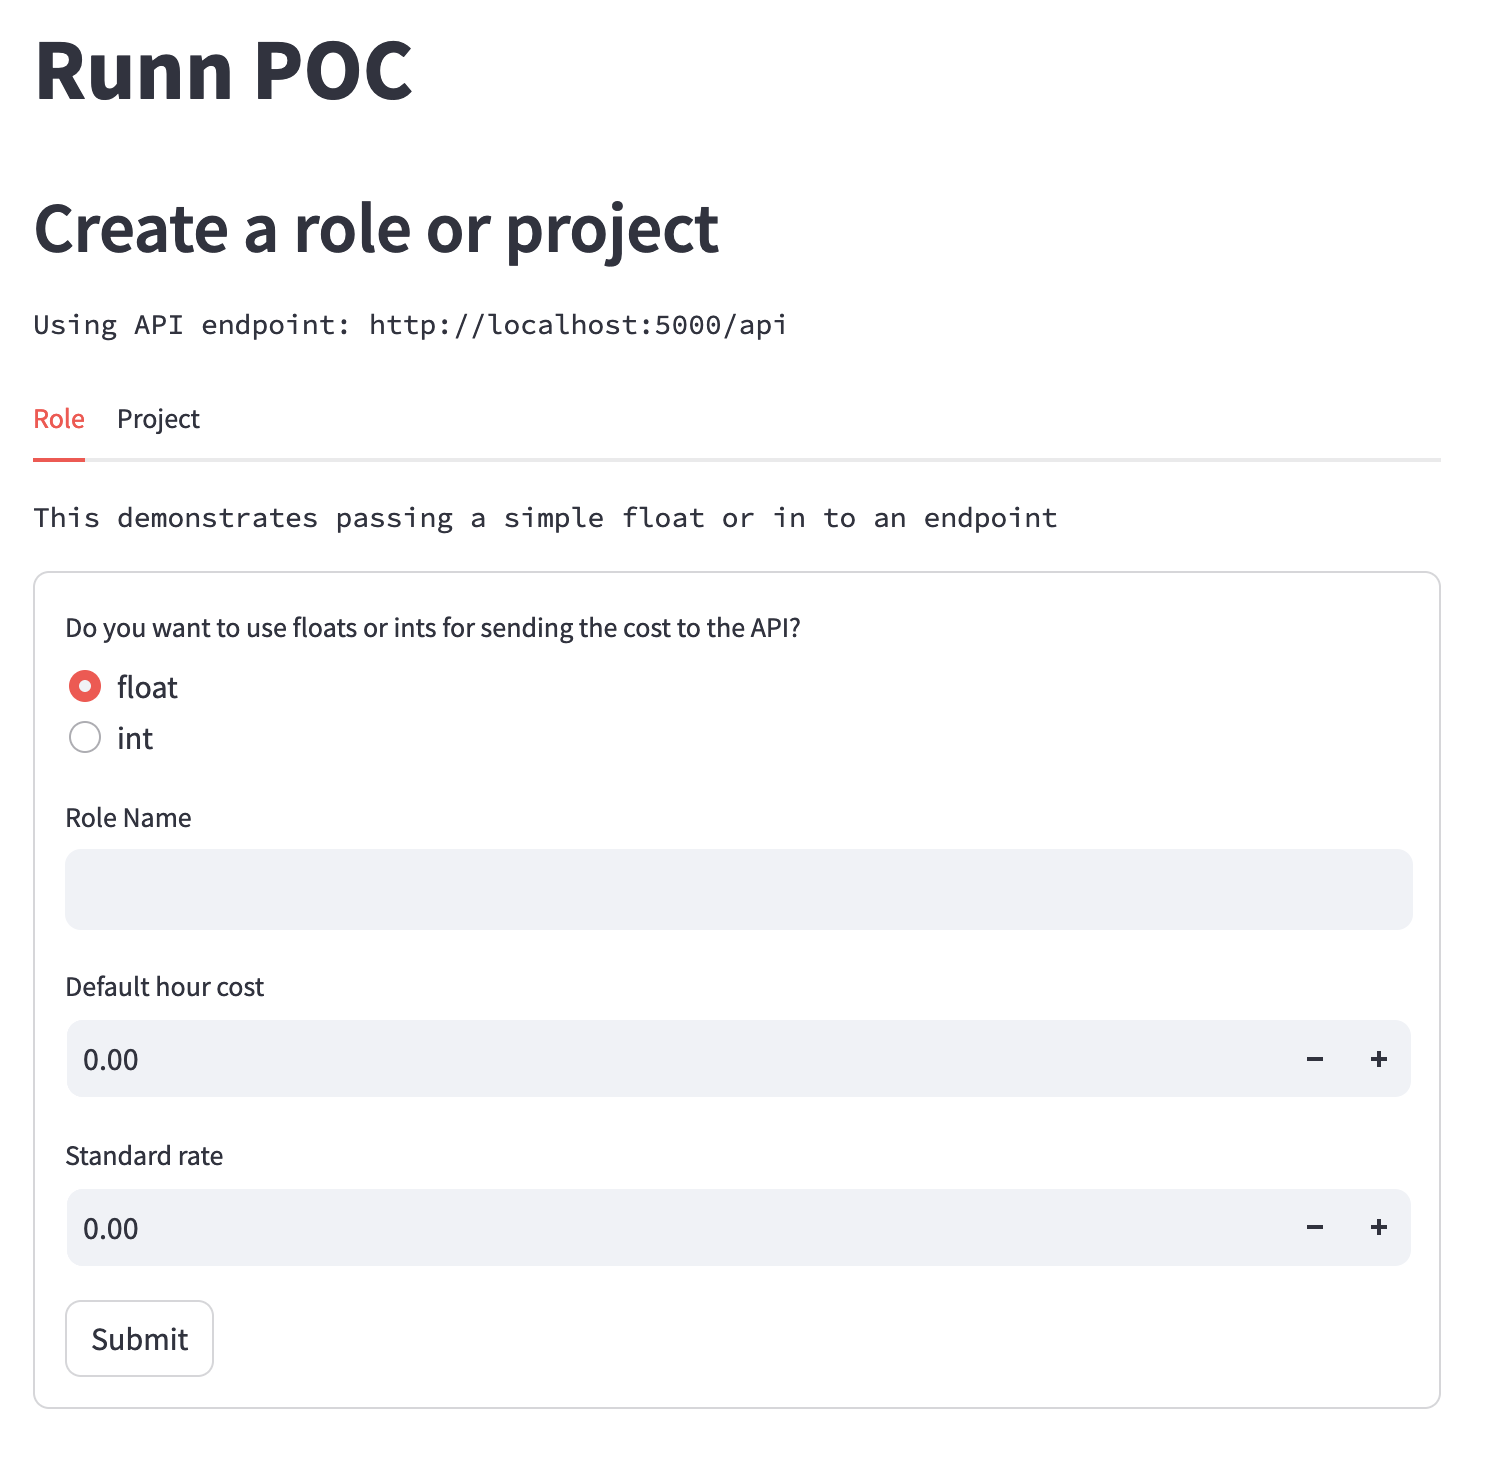
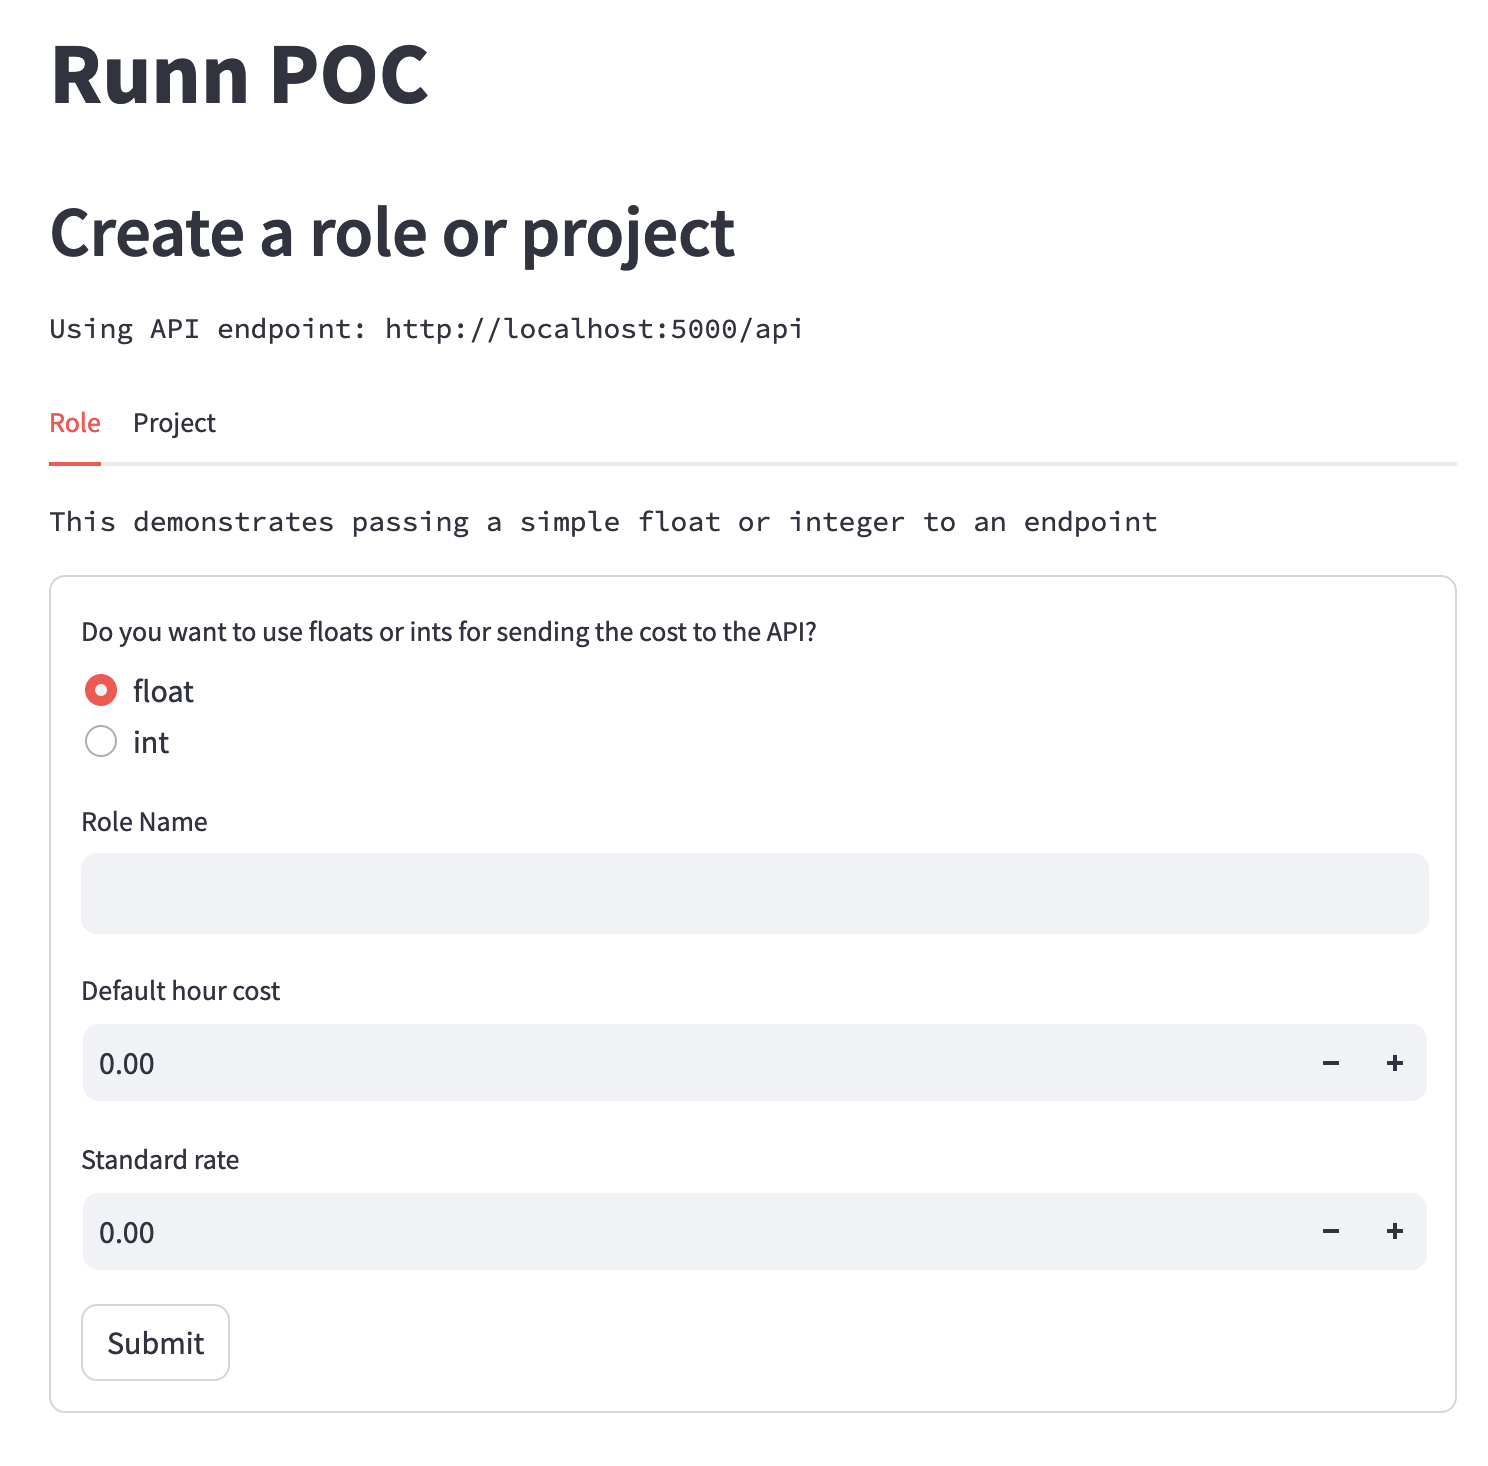
Another typo

diff --git a/script.py b/script.py
@@ -52,7 +52,7 @@ def create_role(*, name: str, default_hour_cost: Union[float, int], standard_rat
 
 
 def render_role_form():
-  st.text("This demonstrates passing a simple float or in to an endpoint")
+  st.text("This demonstrates passing a simple float or integer to an endpoint")
   with st.form("role_form"):
     float_or_int = st.radio(
       "Do you want to use floats or ints for sending the cost to the API?",
